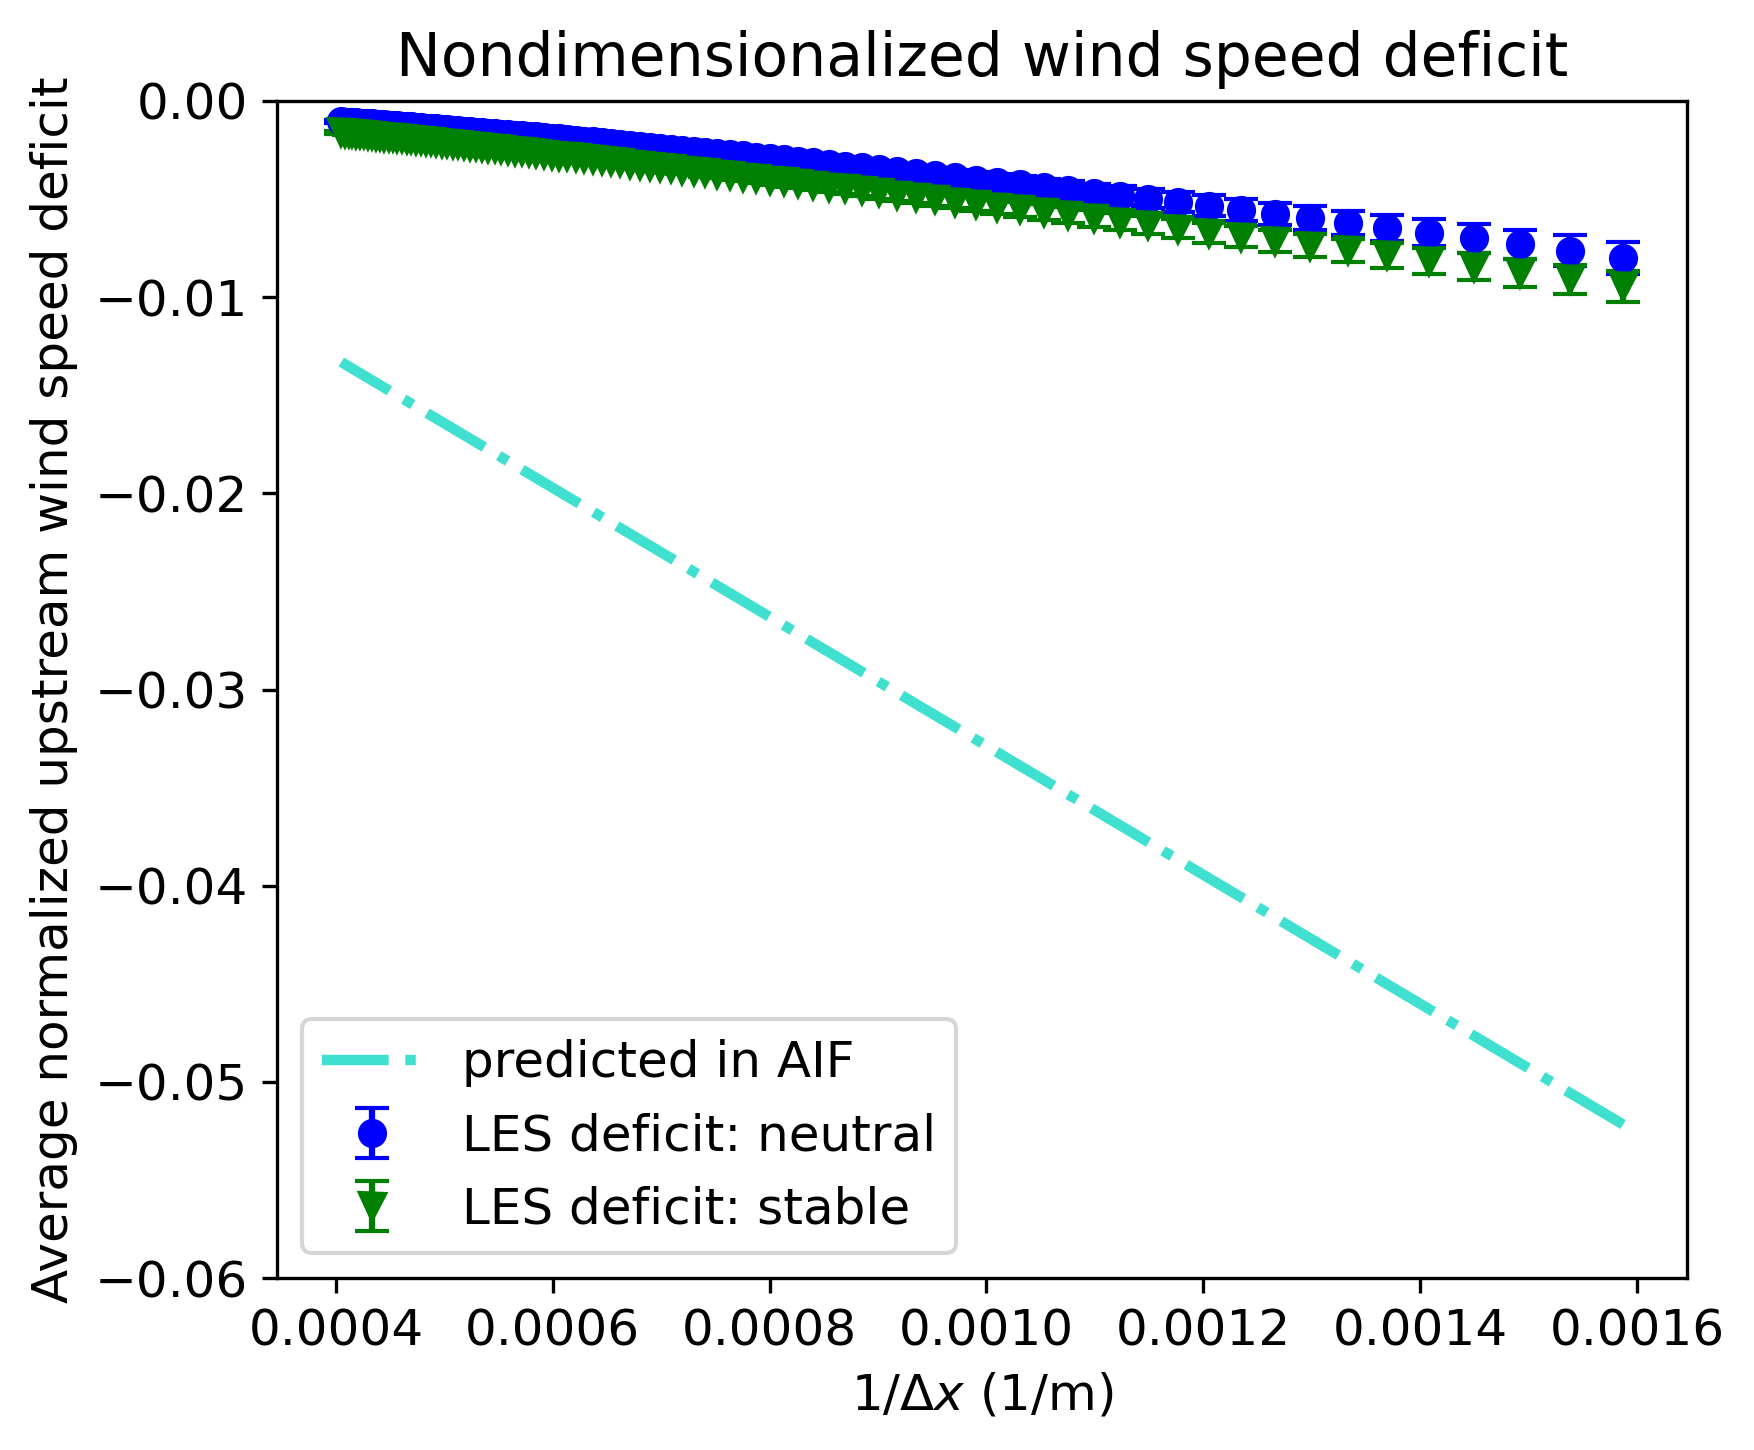
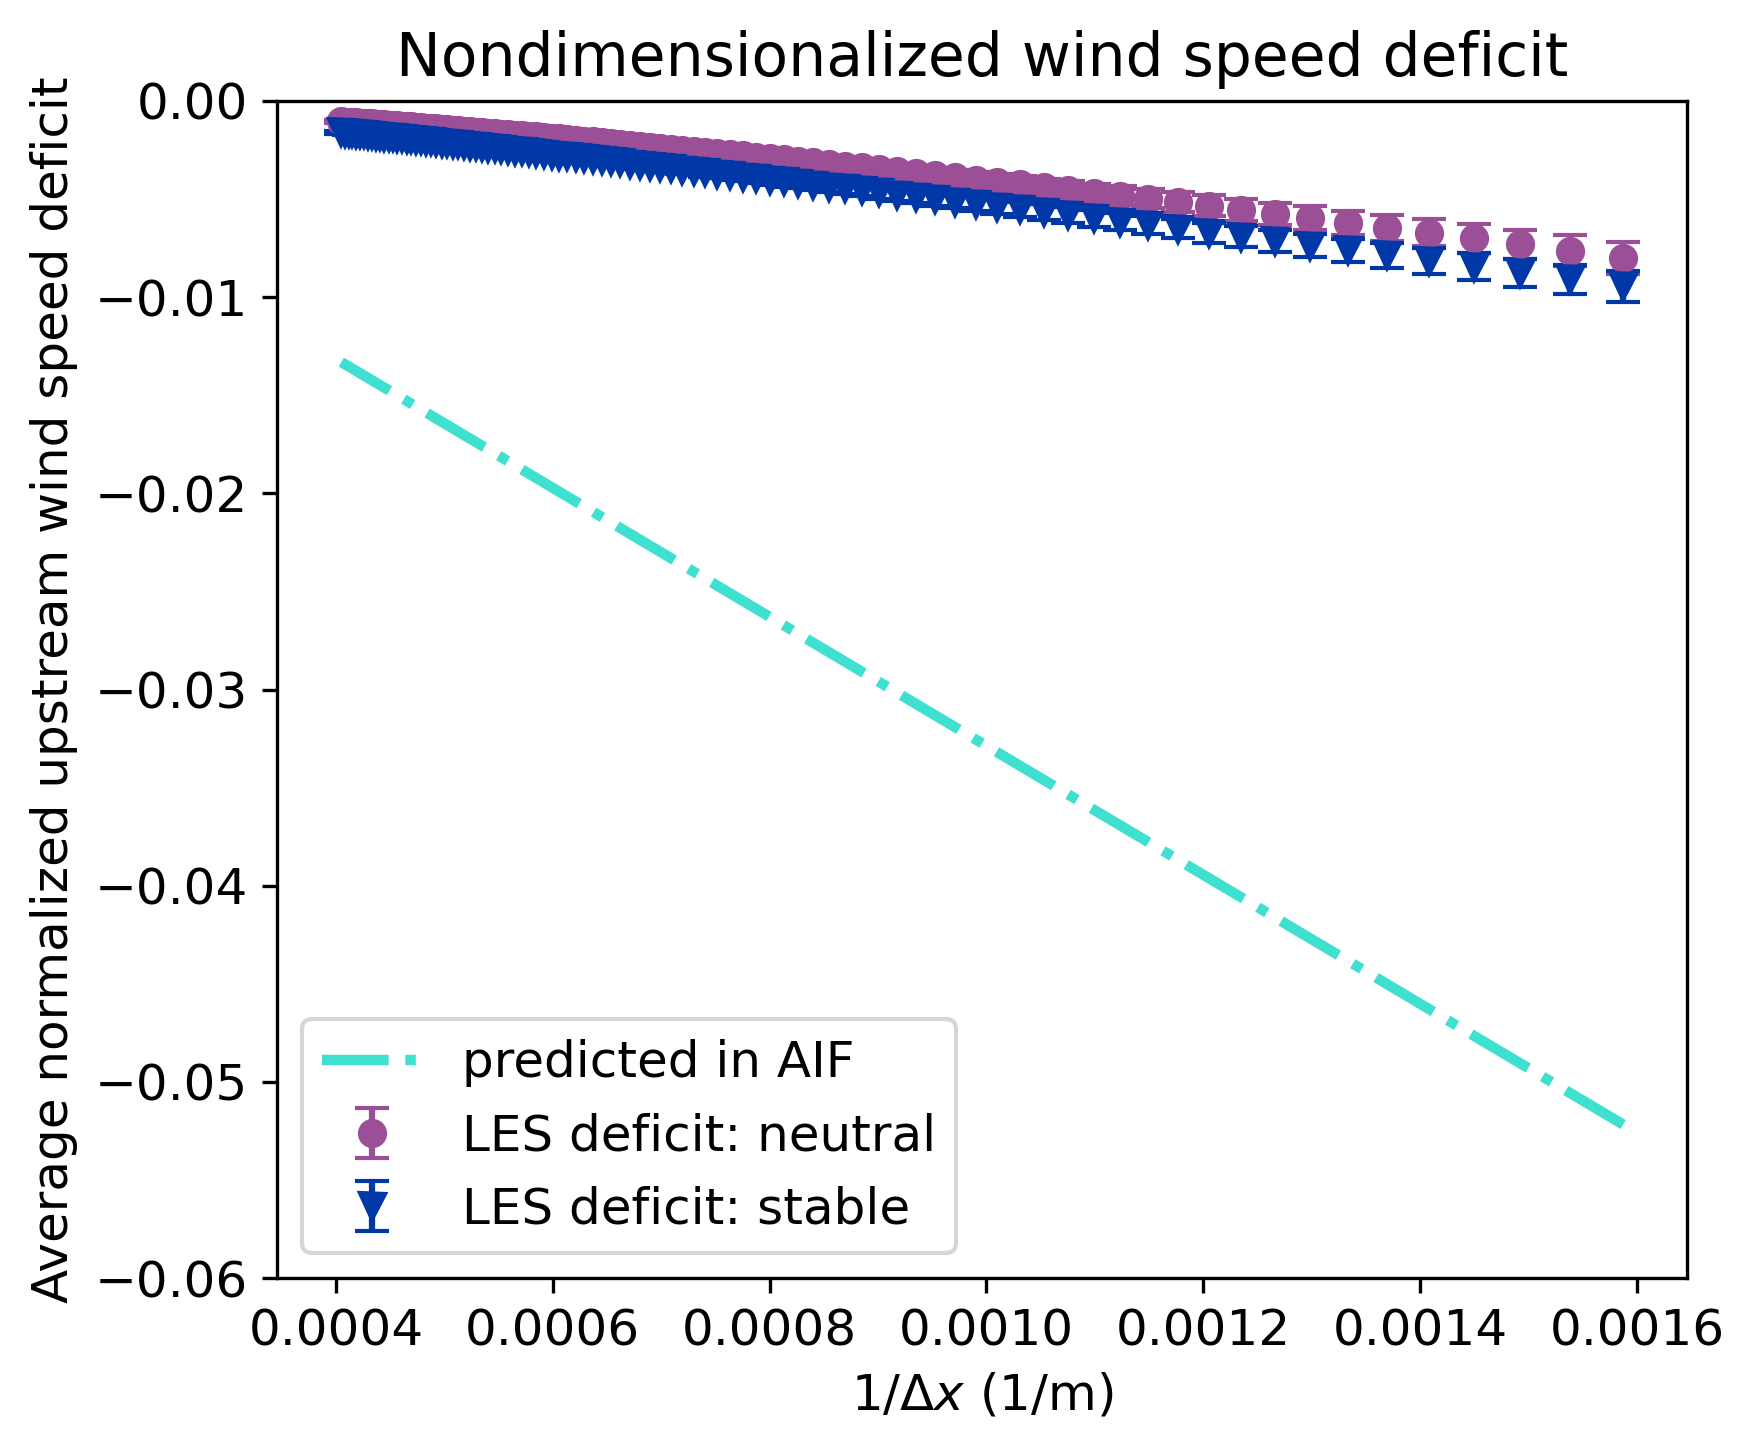
standardize neutral/stable colours

Changed region(s): [[0.1847, 0.0621, 0.9544, 0.2172], [0.1847, 0.7759, 0.2155, 0.8379]]

diff --git a/both_mesoscale_cell_delta.py b/both_mesoscale_cell_delta.py
@@ -8,7 +8,7 @@ neutral = pd.read_csv('grid_cell_wind_speed_delta_neutral.csv', index_col=0, hea
 stable = pd.read_csv('grid_cell_wind_speed_delta_stable.csv', index_col=0, header=0)
 datasets = [neutral, stable]
 labels = ['neutral', 'stable']
-colors = ['blue', 'green']
+colors = ["#9B4F96", "#0038A8"]
 markers = ['o', 'v']
 linestyles = ['dashed', 'dotted']
 